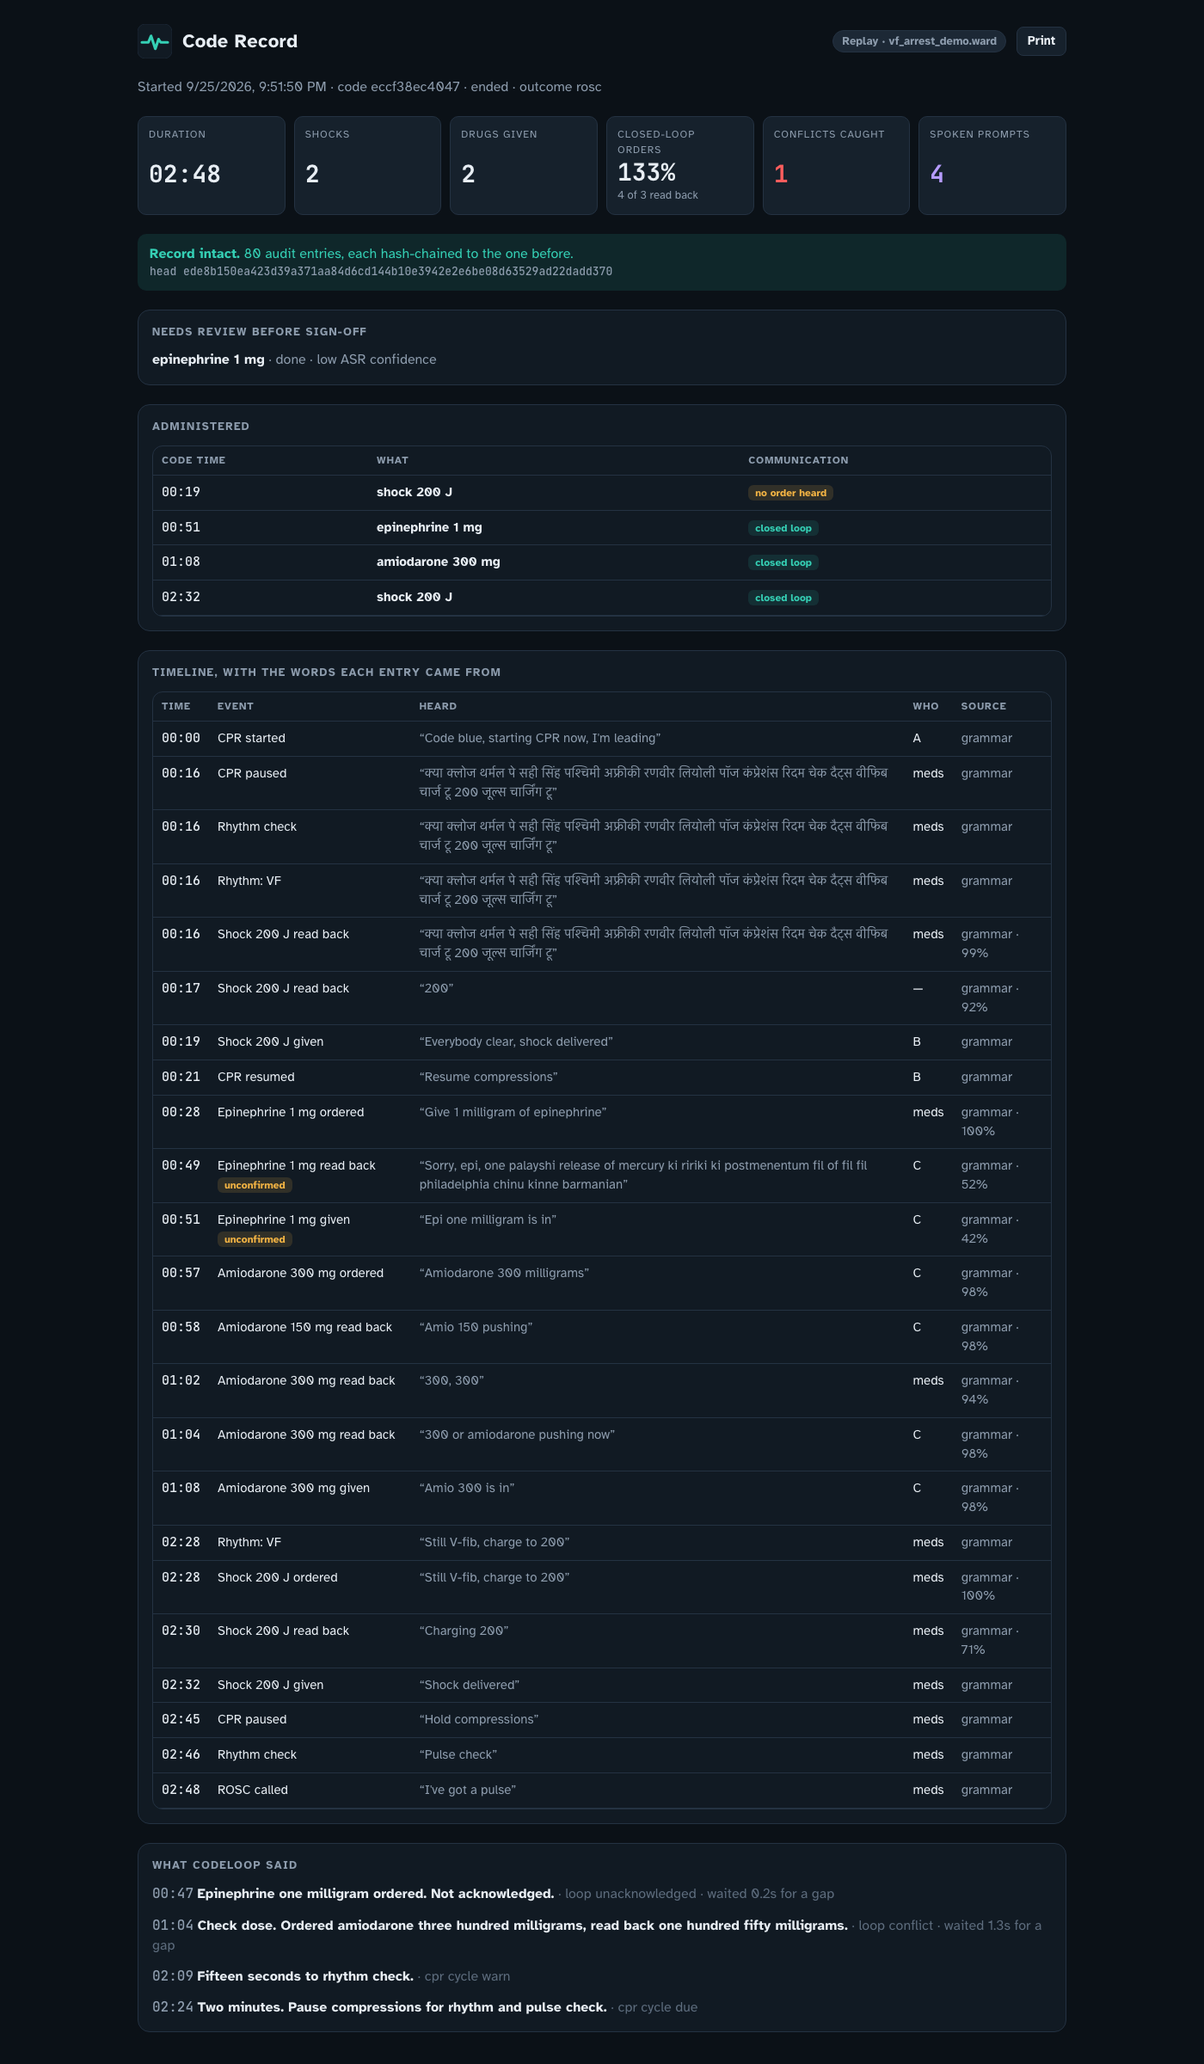
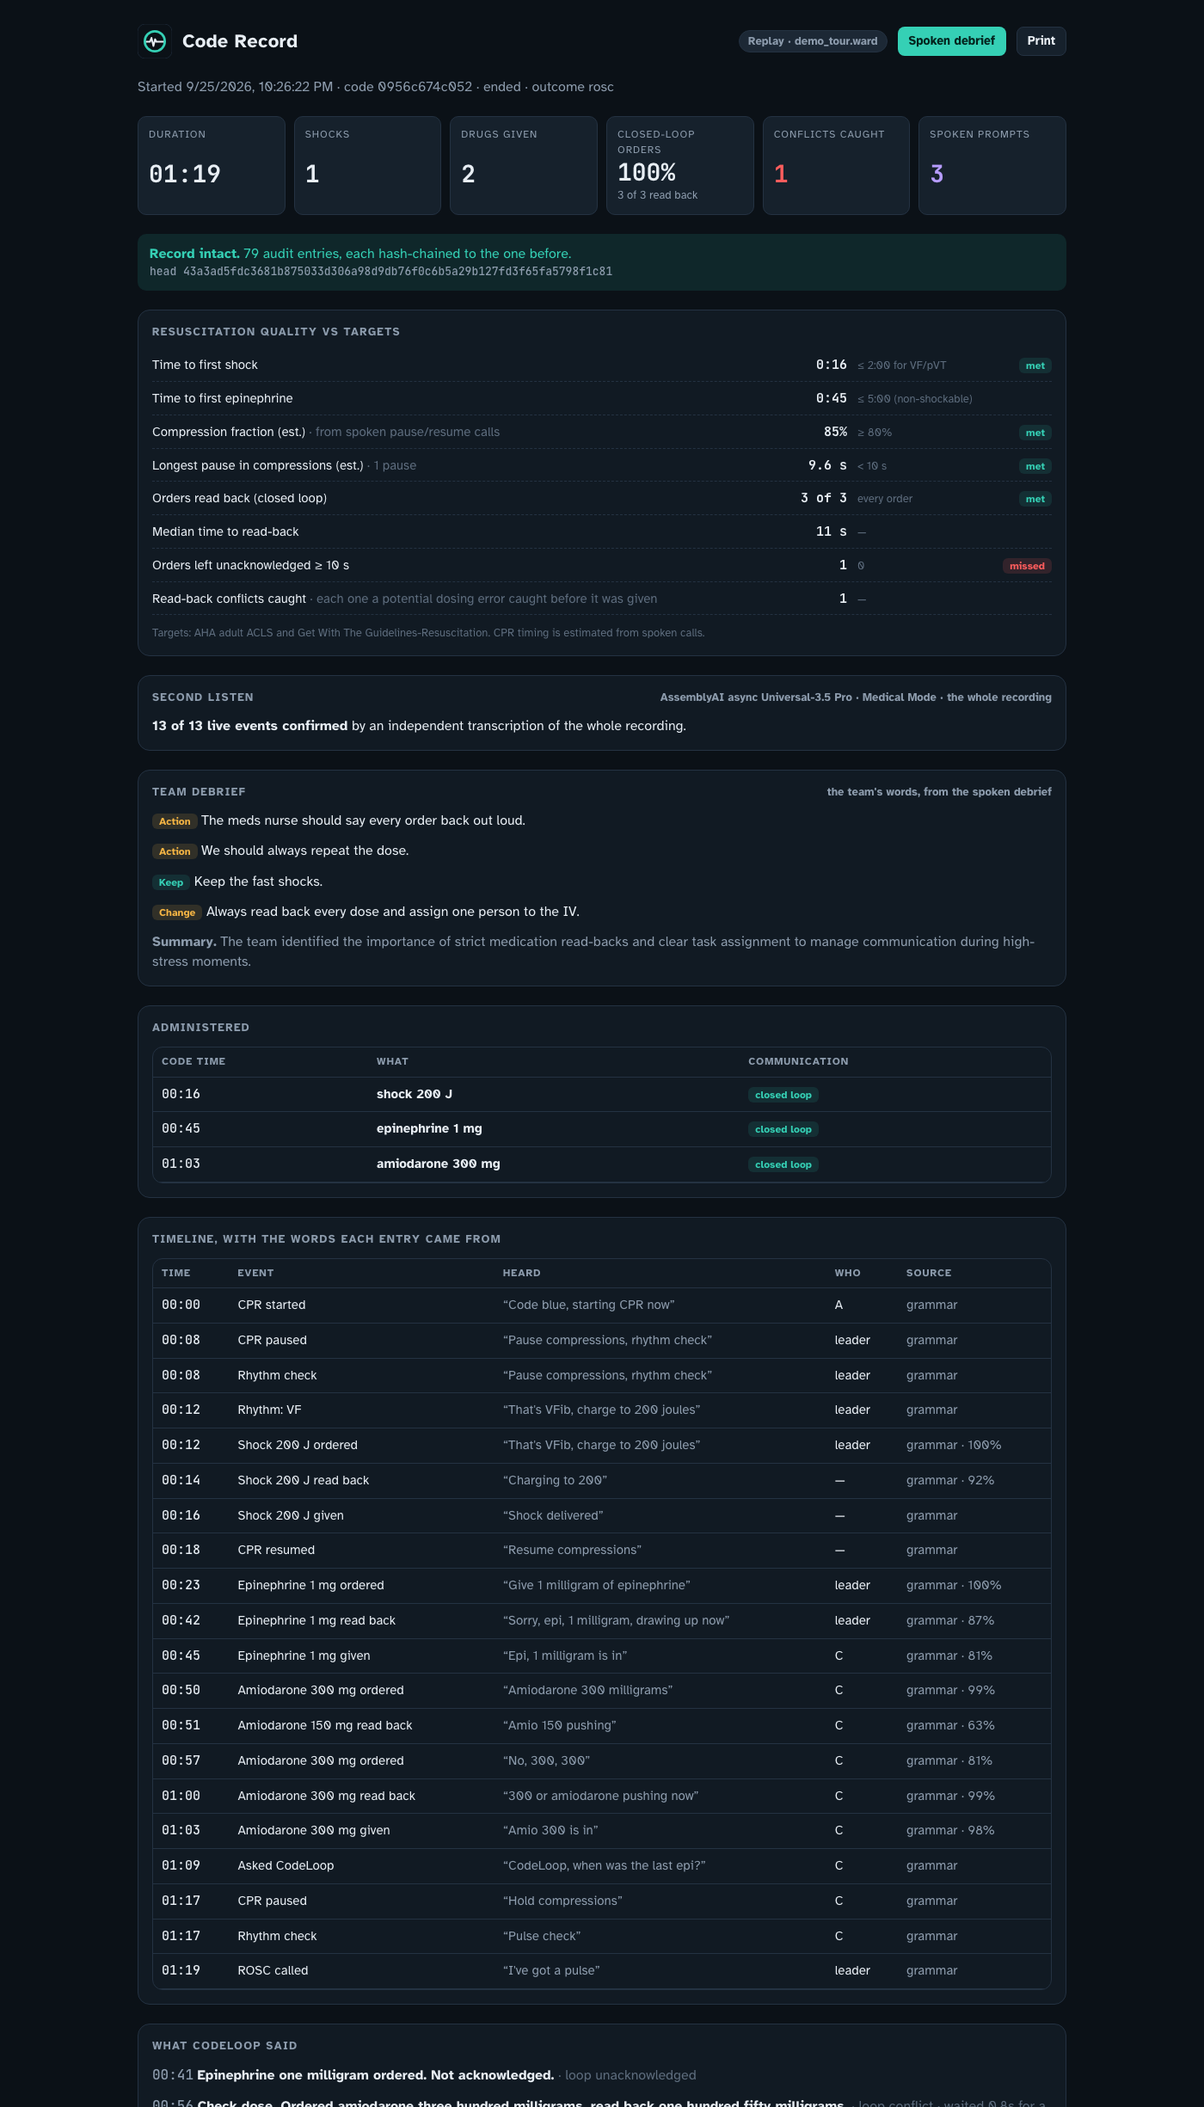
Document the after-code features: quality metrics, second listen, spoken debrief
README gains the after-the-code feature list, AssemblyAI async and tool-calling rows, a second
Mermaid diagram, a Code Record screenshot and config for recordings. Architecture, submission
text and the video script follow. Link-styled buttons no longer underline.

diff --git a/frontend/src/styles.css b/frontend/src/styles.css
@@ -62,6 +62,7 @@ a { color: var(--blue); }
 }
 .btn:hover { background: var(--panel-3); border-color: #33465a; }
 .btn:disabled { opacity: 0.45; cursor: not-allowed; }
+a.btn { text-decoration: none; }
 .btn.primary { background: var(--teal); color: #04241e; border-color: transparent; }
 .btn.primary:hover { background: #4be0c6; }
 .btn.danger { background: var(--red-bg); border-color: rgba(255, 93, 93, 0.5); color: #ffd4d4; }

diff --git a/README.md b/README.md
@@ -58,8 +58,29 @@ orders fly across the room.
   guessed.
 - **Gets out of the way.** CodeLoop waits for a gap in the room before it speaks and stops
   mid-word when a clinician talks over it. The team can mute it or keep it screen-only.
-- **Produces the Code Record.** Every entry has a timestamp, speaker, quote and ASR confidence.
-  Uncertain items are listed for sign-off, and a SHA-256 hash chain makes any edit detectable.
+- **Explains itself.** A "What just happened" caption says in plain words why a card turned
+  amber or red. A guided 90-second tour runs a mock code for anyone seeing CodeLoop for the
+  first time.
+
+**After the code:**
+
+- **Code Record.** Every entry has a timestamp, speaker, quote and ASR confidence. Uncertain
+  items are listed for sign-off, and a SHA-256 hash chain makes any edit detectable.
+- **Quality against AHA targets.** Time to first shock, time to first epinephrine, epinephrine
+  intervals, orders read back, median time to read-back, orders left unacknowledged, and CPR
+  fraction and longest pause estimated from spoken calls. A codes dashboard tracks them across
+  mock codes.
+- **Second listen.** The whole recording is transcribed again with AssemblyAI async
+  Universal-3.5 Pro. Every live event is confirmed, or flagged for review when the two
+  transcriptions disagree.
+- **Spoken debrief.** A hands-free Voice Agent conversation walks the team through a short
+  Gather–Analyze–Summarize debrief. It quotes facts from the record through a tool call and saves
+  the team's lessons, in their own words, to the Code Record.
+
+![The Code Record after a mock code: quality against AHA targets, the second listen and the team's spoken debrief](docs/img/after-code.png)
+*The Code Record of the tour code. The quality panel, the second-listen result and the debrief
+notes are real output. In this debrief a synthetic voice played the team leader
+(`scripts/e2e_debrief.py`) and CodeLoop ran the conversation live on the Voice Agent API.*
 
 ## How it uses AssemblyAI
 
@@ -74,11 +95,16 @@ Each AssemblyAI feature below guards against a specific failure. We measured mos
 | **Hindi–English code-switching** | Indian teams' real talk is lost | Devanagari output is mapped back through a cross-script phonetic layer |
 | **Voice Agent API** | A talking bot talks over the team leader | Fixed lines speak in about **0.8 s**; semantic barge-in stops them mid-word |
 | **Tight turn detection** (`min/max_turn_silence`) | Answers and nudges come too late | Latency cut about 3× (4.4 s → 1.4 s) with no loss of loop outcomes |
+| **Async Universal-3.5 Pro** (second listen) | A live mishearing goes into the record unchecked | Full-recording pass confirmed **13 of 13** live events on the tour code, and flagged a false ROSC on an older capture |
+| **Voice Agent tool calling** (debrief) | A debrief bot invents numbers | Facts come only from `get_code_facts`, built deterministically from the record; lessons are saved with `save_debrief_note` |
 
-The two AssemblyAI connections do different jobs. The **streaming ears** hear the room. The
-**Voice Agent** is CodeLoop's voice. The Voice Agent never hears room chatter: in testing it tried
+During the code, two AssemblyAI connections do different jobs. The **streaming ears** hear the
+room. The **Voice Agent** is CodeLoop's voice. The Voice Agent never hears room chatter: in testing it tried
 to answer unaddressed speech out loud. It receives room audio only while it is speaking, so
 clinicians can interrupt it. See [docs/spike-findings.md](docs/spike-findings.md).
+After the code, **async Universal-3.5 Pro** checks the record and the **Voice Agent** runs the
+debrief as a real two-way conversation with tools. That is the one place CodeLoop's model
+talks freely, and it can only quote facts, never compute them.
 
 ## Architecture
 
@@ -122,6 +148,30 @@ flowchart TB
     class STT,VA aai
     class TURNS,GRAM,ENG,ANS,SCHED,AUDIT,REC core
     class TEAM,TAB,SCREEN room
+```
+
+**After the code**, the same audit log feeds three checks. None of them can change what was
+logged live; they add review flags and the team's own words.
+
+```mermaid
+flowchart LR
+    WAV[("Room recording<br/>retention-limited")] --> ASYNC["AssemblyAI async<br/>Universal-3.5 Pro<br/>second listen"]
+    ASYNC --> RECON["Reconciler<br/>confirmed · mismatch<br/>live-only · second-only"]
+    LOG[("Hash-chained<br/>audit log")] --> QUAL["Quality metrics<br/>vs AHA targets"]
+    LOG --> FACTS["Debrief facts<br/>deterministic sentences"]
+    FACTS -- "get_code_facts" --> DEB["AssemblyAI Voice Agent<br/>spoken debrief"]
+    TEAM(["Team leader"]) <-- "two-way voice,<br/>barge-in" --> DEB
+    RECON -- "needs review" --> REC["Code Record"]
+    QUAL --> REC
+    DEB -- "save_debrief_note<br/>end_debrief" --> LOG
+    LOG --> REC
+
+    classDef aai fill:#16243a,stroke:#6aa9ff,color:#e8eef4
+    classDef core fill:#10241f,stroke:#35d0b5,color:#e8eef4
+    classDef room fill:#1c2835,stroke:#8d9cad,color:#e8eef4
+    class ASYNC,DEB aai
+    class WAV,RECON,LOG,QUAL,FACTS,REC core
+    class TEAM room
 ```
 
 **How a dose conflict is caught, end to end:**
@@ -192,9 +242,9 @@ Protocol, per-scenario numbers and the AssemblyAI A/B: [eval/RESULTS.md](eval/RE
 
 | Real | Simulated |
 |---|---|
-| Live AssemblyAI streaming, diarization, Medical Mode, keyterms, Voice Agent API | The patient, monitor and defibrillator (there are no device integrations) |
+| Live AssemblyAI streaming, diarization, Medical Mode, keyterms, Voice Agent API (fixed lines and the tool-calling debrief), async second listen | The patient, monitor and defibrillator (there are no device integrations) |
 | Grammar, resolver, ACLS engine, prompt scheduler, echo guard | Mock-code audio in replay mode is TTS voices, not real clinicians |
-| Hash-chained audit log, Code Record, web UI, microphone capture | No EHR or registry connection yet |
+| Hash-chained audit log, Code Record, quality metrics, web UI, microphone capture | No EHR or registry connection yet. CPR fraction is estimated from spoken calls, not a CPR sensor |
 | Every number in this README, measured with the scripts in `eval/` | |
 
 ## Run it
@@ -208,9 +258,11 @@ cd backend && uv sync && uv run python -m codeloop     # API on :8000
 cd frontend && pnpm install && pnpm dev                 # UI on :5173 (proxies to :8000)
 ```
 
-Open http://localhost:5173. **Replay a mock code** streams a recorded mock code through the
-live pipeline. **Start live code** uses your microphone. Say "Code blue, starting CPR", then
-try "Give one milligram of epinephrine" and stay silent.
+Open http://localhost:5173. **Start here: 90-second tour** replays a guided mock code with
+captions. **Replay a mock code** streams a recorded mock code through the live pipeline. **Start live code** uses your microphone. Say "Code blue, starting CPR", then
+try "Give one milligram of epinephrine" and stay silent. When a code ends, open its Code
+Record for the quality metrics and second listen, and press **Spoken debrief** to talk it
+through (headphones help).
 
 **Single-origin production build:** run `cd frontend && pnpm build`, then start the backend. It
 serves the UI at http://localhost:8000.
@@ -236,14 +288,17 @@ secret. It is used only to download dependencies and is never copied into the im
 | `MAX_CODE_MINUTES` | `60` | Capture stops after this long |
 | `DATABASE_PATH` | `data/codeloop.db` | Audit log (put it on a volume) |
 | `MIN_TURN_SILENCE_MS` / `MAX_TURN_SILENCE_MS` | `160` / `640` | Turn detection (measured trade-off) |
+| `STORE_AUDIO` / `SECOND_LISTEN` | `true` / `true` | Keep the room recording and re-check the record after the code |
+| `AUDIO_RETENTION_DAYS` | `30` | Recordings older than this are deleted at startup |
 
 **Tests and evaluation:**
 
 ```bash
-cd backend && uv run pytest -q                                  # 131 tests
+cd backend && uv run pytest -q                                  # 141 tests
 uv run --project backend python eval/run_text_eval.py           # perfect-transcript scores
 uv run --project backend python eval/capture.py eval/audio/*.ward.wav   # live captures (needs key)
 uv run --project backend python eval/run_eval.py spikes/results/streaming.*.product.raw.json
+uv run --project backend python scripts/e2e_debrief.py <ended code id>  # live spoken debrief
 ```
 
 ## Repository map
@@ -252,8 +307,10 @@ uv run --project backend python eval/run_eval.py spikes/results/streaming.*.prod
 backend/src/codeloop/
   aai/          AssemblyAI clients: streaming ears, voice agent, turn splitting
   extract/      grammar, numbers, phonetic cross-script matching, resolver
-  engine/       ACLS engine + loop ledger, spoken-number rendering, answers
-  session.py    per-code orchestration (scheduling, echo guard, controls, replay)
+  engine/       ACLS engine + loop ledger, spoken-number rendering, answers, quality metrics
+  session.py    per-code orchestration (scheduling, echo guard, controls, replay, recording)
+  reconcile.py  second listen: live record vs async re-transcription
+  debrief.py    spoken debrief on the Voice Agent API, with tools
   store.py      hash-chained audit log      record.py   Code Record
   api/app.py    REST + WebSocket API
 frontend/src/   crash-cart UI (React + TypeScript)
@@ -265,12 +322,14 @@ docs/           architecture, safety case, spike findings, research
 ## Cost
 
 About **$2.66 of AssemblyAI usage per 30-minute code** at list prices: streaming with Medical Mode,
-speaker labels and Voice Focus, plus a Voice Agent session. See
-[docs/architecture.md](docs/architecture.md).
+speaker labels and Voice Focus, plus a Voice Agent session. The second listen adds an async
+Universal-3.5 Pro pass ($0.21/h base), and a five-minute spoken debrief is about $0.38 of Voice
+Agent time. See [docs/architecture.md](docs/architecture.md).
 
 ## Roadmap
 
-1. **Simulation centres.** Recorded mock codes with real clinicians, and debrief timelines. This is
+1. **Simulation centres.** Recorded mock codes with real clinicians, quality dashboards and
+   spoken debriefs. This is
    also where accuracy on real voices gets measured.
 2. **Documentation assist.** Recorder-nurse sign-off, FHIR export and GWTG-Resuscitation registry
    fields.

diff --git a/docs/video-script.md b/docs/video-script.md
@@ -26,10 +26,11 @@ Every claim in the video must match what the README and `eval/RESULTS.md` say.
 | 1:45–1:55 | Transcript panel | **Priya:** "CodeLoop, last epi kab diya tha?" **CodeLoop:** "Last epinephrine, one milligram, … ago." | Hindi–English; answers from the record |
 | 1:55–2:10 | Cut to the clock near 1:45 (say "two minutes later" in the edit) | **CodeLoop:** "Fifteen seconds to rhythm check." … "Two minutes. Pause compressions for rhythm and pulse check." | The ACLS clock, out loud |
 | 2:10–2:25 | Team, then the banner | **Leader:** "Hold compressions, pulse check. I've got a pulse. We have ROSC." The banner reads *"ROSC called. Timers are paused until someone confirms."*; tap **Confirm** | A human confirms the end |
-| 2:25–2:45 | Code Record page | Scroll: closed-loop orders, 1 conflict caught, needs-review list, quoted timeline, "Record intact" with hash | The documentation nobody had to type |
-| 2:45–3:20 | Architecture diagram (from `docs/architecture.md`) | "Two AssemblyAI connections. Universal-3.5 Pro streaming hears the room, with speaker labels, Medical Mode and ACLS keyterms. The Voice Agent API is CodeLoop's voice: it waits for a gap and stops when a clinician speaks. Between them, deterministic code decides every state, timer and number that is spoken. The model never picks a dose." | Application of technology |
-| 3:20–3:50 | Results slide | "We tested on held-out mock codes committed before measuring. Fresh sets found real bugs, including one that turned 'one hundred and fifty joules' into two shocks. After general fixes: precision 0.96, recall 0.88, 16 of 17 loop outcomes. Medical Mode and keyterms raised drug and dose accuracy from 78 to 96 percent. Latency is about 1.2 seconds." | Honest evidence |
-| 3:50–4:30 | Business slide | "The first customers are simulation centres and hospital resuscitation committees: every hospital runs mock codes and must review every real one. It costs about $2.66 in AssemblyAI usage per 30-minute code. Next come nurse-signed documentation and registry export, then real-time assist with clinical validation." | Business value |
+| 2:25–2:40 | Code Record page | Scroll: quality against AHA targets (first shock 0:16, orders read back 3 of 3, 1 order left unacknowledged), second listen "13 of 13 live events confirmed", quoted timeline, "Record intact" with hash | The documentation nobody had to type, checked twice |
+| 2:40–3:05 | **Spoken debrief** page | Click **Spoken debrief**. **CodeLoop:** "Let's debrief that code… How do you feel it went?" **Leader:** "Fast, but it got loud around the drugs." CodeLoop quotes "The order for epinephrine one milligram went unacknowledged for more than ten seconds" and asks what would help. **Leader:** "The meds nurse should say every order back." A *Saved · Action* chip appears | A real two-way voice agent with tools, grounded in the record |
+| 3:05–3:30 | Architecture diagrams (README) | "AssemblyAI in four roles. Universal-3.5 Pro streaming hears the room, with speaker labels, Medical Mode and ACLS keyterms. The Voice Agent API is CodeLoop's voice: it waits for a gap and stops when a clinician speaks. After the code, async Universal-3.5 Pro re-checks the record, and the Voice Agent runs the debrief with tool calls. Deterministic code decides every state, timer and number. The model never picks a dose." | Application of technology |
+| 3:30–3:55 | Results slide | "We tested on held-out mock codes committed before measuring. Fresh sets found real bugs. After general fixes: precision 0.96, recall 0.88, 16 of 17 loop outcomes. Medical Mode and keyterms raised drug and dose accuracy from 78 to 96 percent. Latency is about 1.2 seconds." | Honest evidence |
+| 3:55–4:30 | Business slide | "The first customers are simulation centres and hospital resuscitation committees: every hospital runs mock codes and must review every real one. CodeLoop gives them the record, the quality metrics and the debrief. It costs about $2.66 in AssemblyAI usage per 30-minute code. Next come nurse-signed documentation and registry export, then real-time assist with clinical validation." | Business value |
 | 4:30–5:00 | Team on camera, then the logo | "Codes are loud, fast and hands-full. CodeLoop is the recorder that never looks away. Every order heard. Every loop closed." | The memorable close |
 
 ## Fallback: no actors available

diff --git a/docs/architecture.md b/docs/architecture.md
@@ -48,8 +48,12 @@ flowchart TB
 | `engine/engine.py` | Closed-loop ledger and ACLS clock; no I/O, fully deterministic |
 | `engine/answers.py` | Deterministic answers to "CodeLoop, …" questions |
 | `engine/speech.py` | Numbers, doses and durations as unambiguous spoken English |
+| `engine/metrics.py` | Resuscitation quality against AHA targets (first shock, first epinephrine, intervals, read-back rate and time, estimated CPR fraction and longest pause) |
 | `aai/voice.py` | Voice Agent API client: only speaks given lines, mutes unsolicited replies, barge-in, session resume |
-| `session.py` | Per-code orchestration: prompt scheduling, echo guard, controls, replay, broadcast, audit |
+| `session.py` | Per-code orchestration: prompt scheduling, echo guard, controls, replay, broadcast, audit, room recording, second listen after the code |
+| `aai/async_stt.py` | AssemblyAI async Universal-3.5 Pro over the whole recording (Medical Mode, speaker labels, the same keyterms) |
+| `reconcile.py` | Second listen: classifies each clinical event as confirmed, value mismatch, live-only or second-only |
+| `debrief.py` | Spoken debrief on the Voice Agent API: `get_code_facts` (deterministic sentences), `save_debrief_note`, `end_debrief` |
 | `store.py` | Append-only SHA-256 hash-chained audit log |
 | `record.py` | Code Record from the audit log, with integrity status |
 | `api/app.py` | REST + WebSocket API, access token, limits, SPA hosting |
@@ -68,6 +72,11 @@ See the header of `backend/src/codeloop/api/app.py` for message types. Binary fr
 `0x01` + PCM16 16 kHz room audio (replays), `0x02` + PCM16 24 kHz CodeLoop voice. Browser → server
 binary frames are microphone PCM16 16 kHz.
 
+The spoken debrief uses its own socket, `/ws/debrief/{code_id}`, and is open only for ended codes.
+The browser sends microphone PCM16 16 kHz; the server resamples to 24 kHz for the Voice Agent and
+returns `0x02` voice frames plus `debrief_ready` / `debrief_user` / `debrief_agent` /
+`debrief_tool` / `debrief_note` / `debrief_done` messages. Tool results are sent after `reply.done`.
+
 ## Cost per code (AssemblyAI list prices, Sept 2026)
 
 | Item | Rate |
@@ -78,3 +87,5 @@ binary frames are microphone PCM16 16 kHz.
 | Voice Focus | + $0.10 / h |
 | Voice Agent API (session time) | $4.50 / h |
 | **30-minute code** | **≈ $2.66** |
+| Second listen (async U3.5 Pro, optional) | $0.21 / h base, plus Medical Mode and speaker-label add-ons |
+| Spoken debrief (Voice Agent, optional) | ≈ $0.38 for five minutes |

diff --git a/docs/submission.md b/docs/submission.md
@@ -32,6 +32,13 @@ timer and spoken number. Low-confidence doses are marked for confirmation, and a
 cannot end a code. Every entry goes into a SHA-256 hash-chained audit log, and the Code Record is
 rebuilt from that log.
 
+After the code, CodeLoop closes the learning loop. The Code Record shows quality against AHA
+targets (time to first shock and epinephrine, read-back rate and time, estimated CPR fraction). A
+"second listen" transcribes the whole recording again with AssemblyAI async Universal-3.5 Pro and
+confirms each live event or flags it for review. Then the team leader can hold a hands-free spoken
+debrief: a Voice Agent conversation with tool calls that quotes facts from the record, never
+computing them, and saves the team's lessons in their own words.
+
 We measured it honestly on synthetic mock codes. On two held-out sets, committed before they
 were measured, the first live scores were precision 0.97 / recall 0.71 and 0.82 / 0.56. After
 general fixes: 0.96 / 0.88, with 16 of 17 loop outcomes correct. Medical Mode plus keyterms raised
